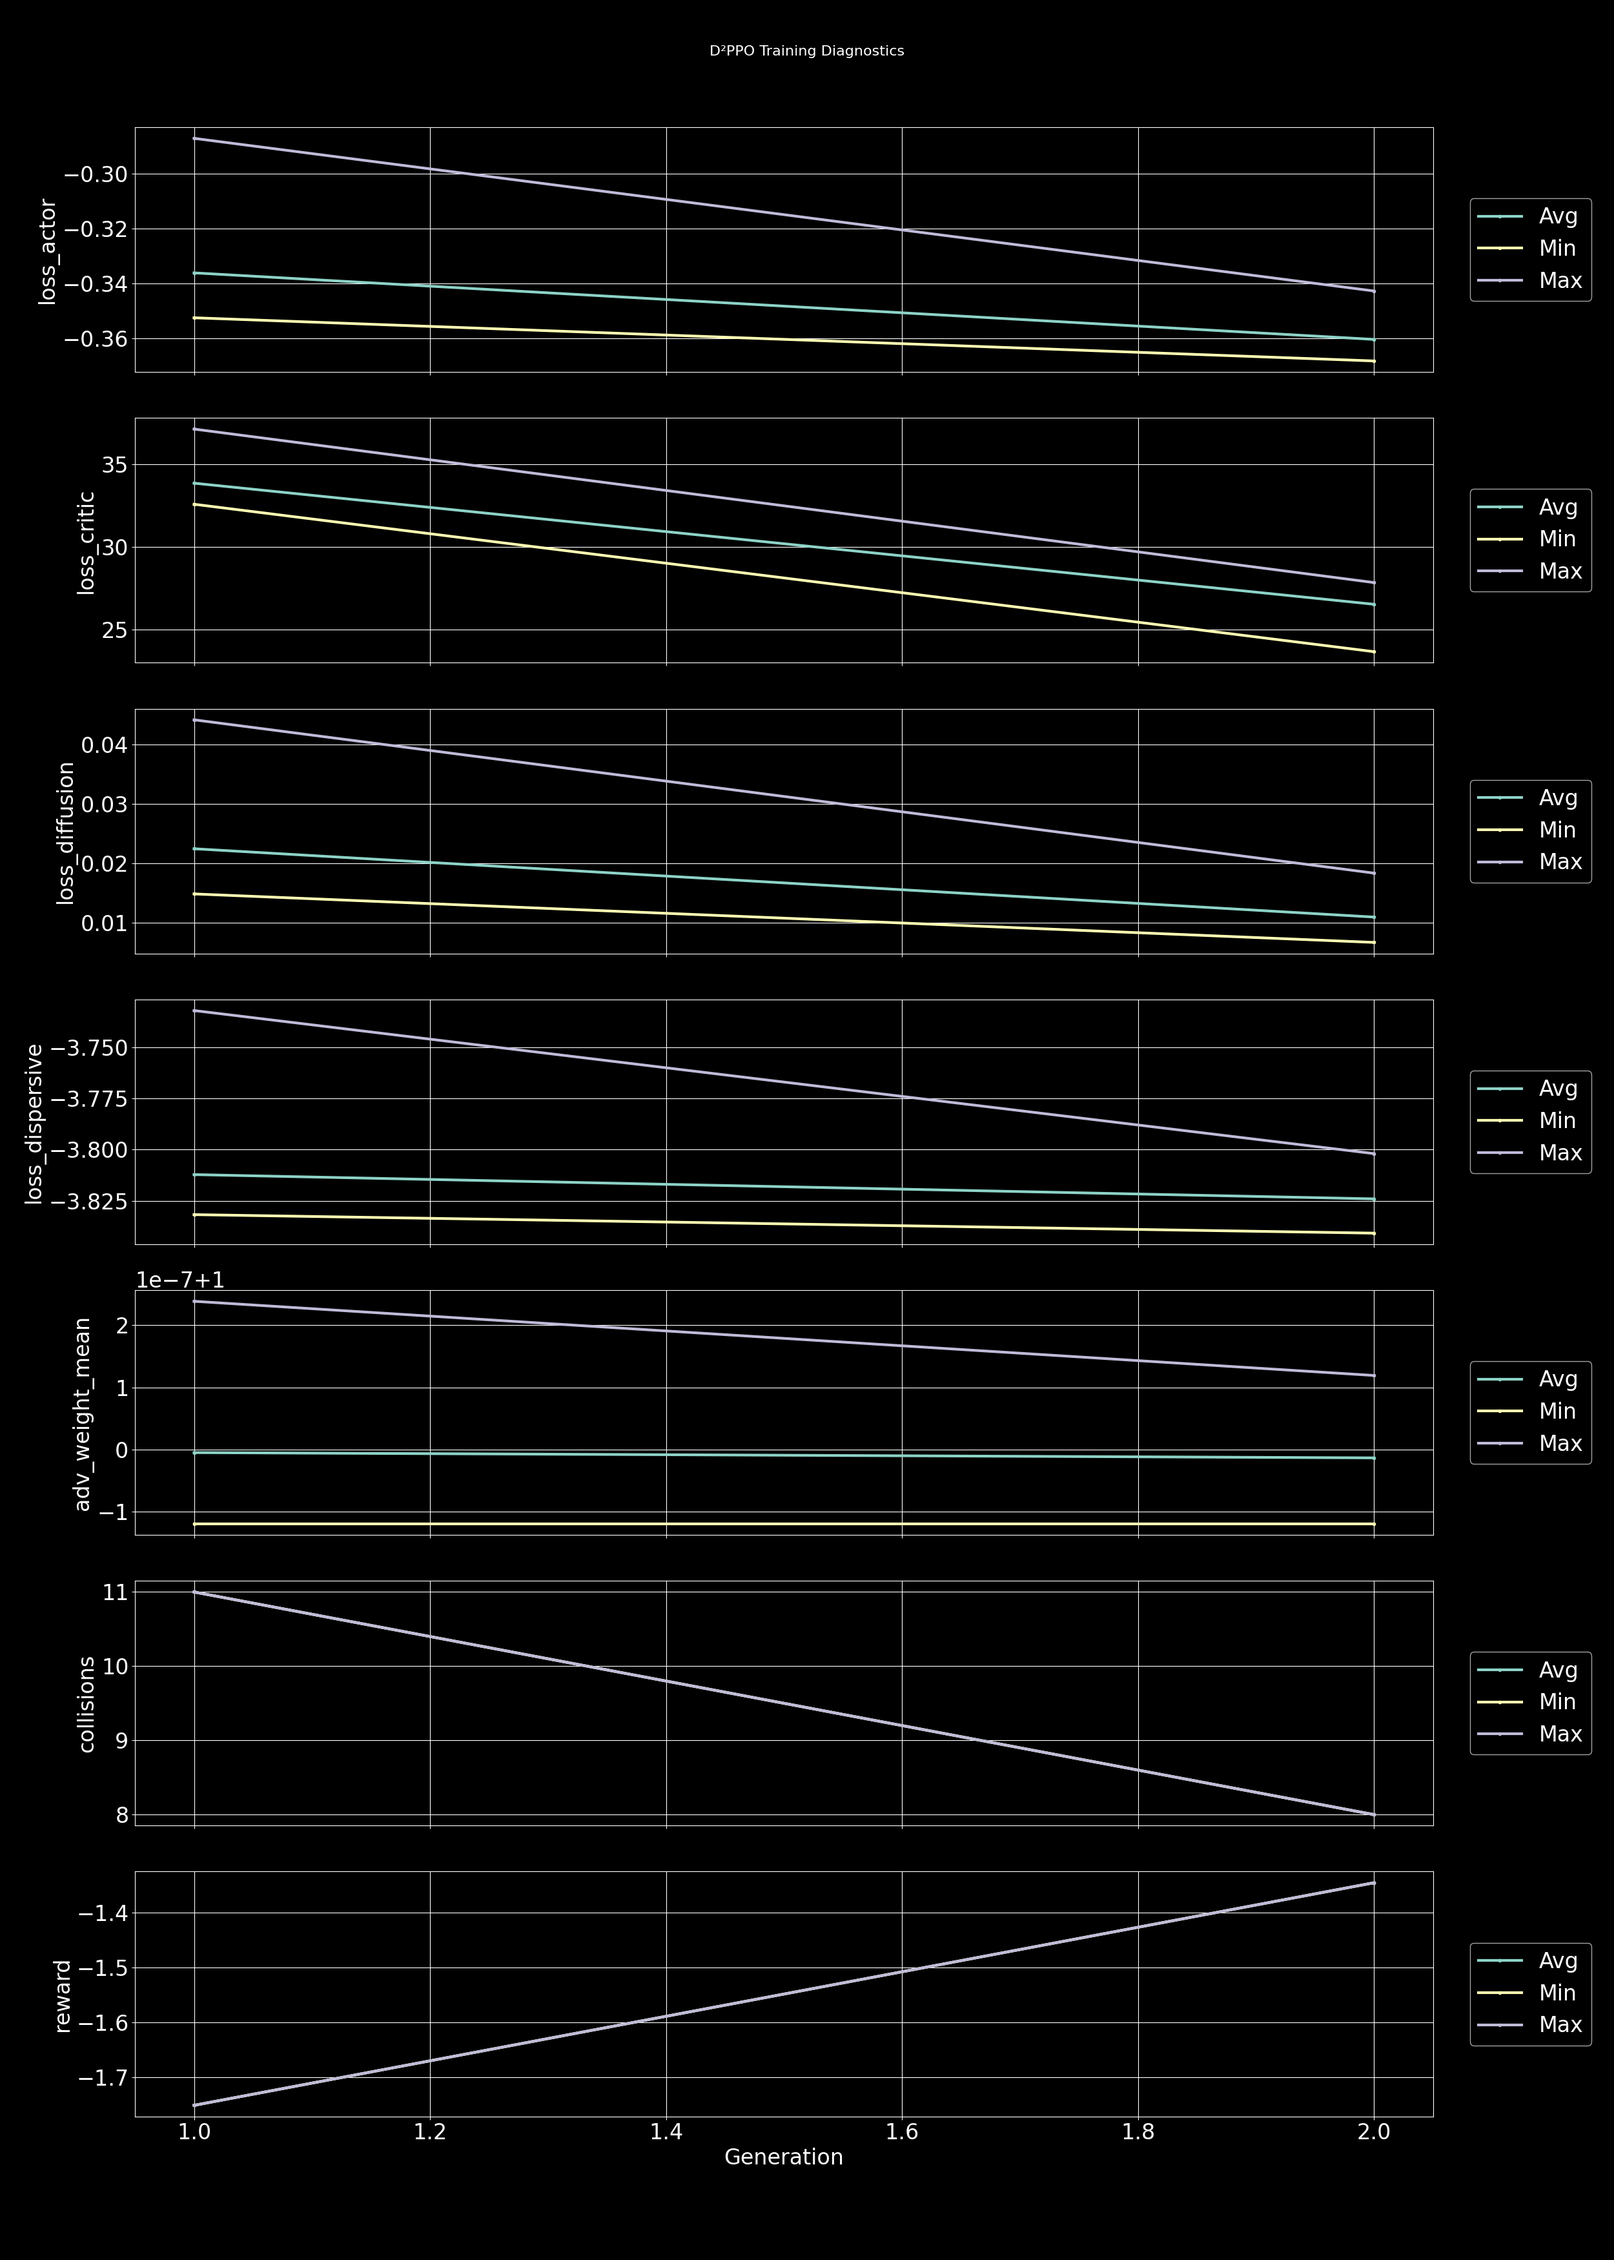
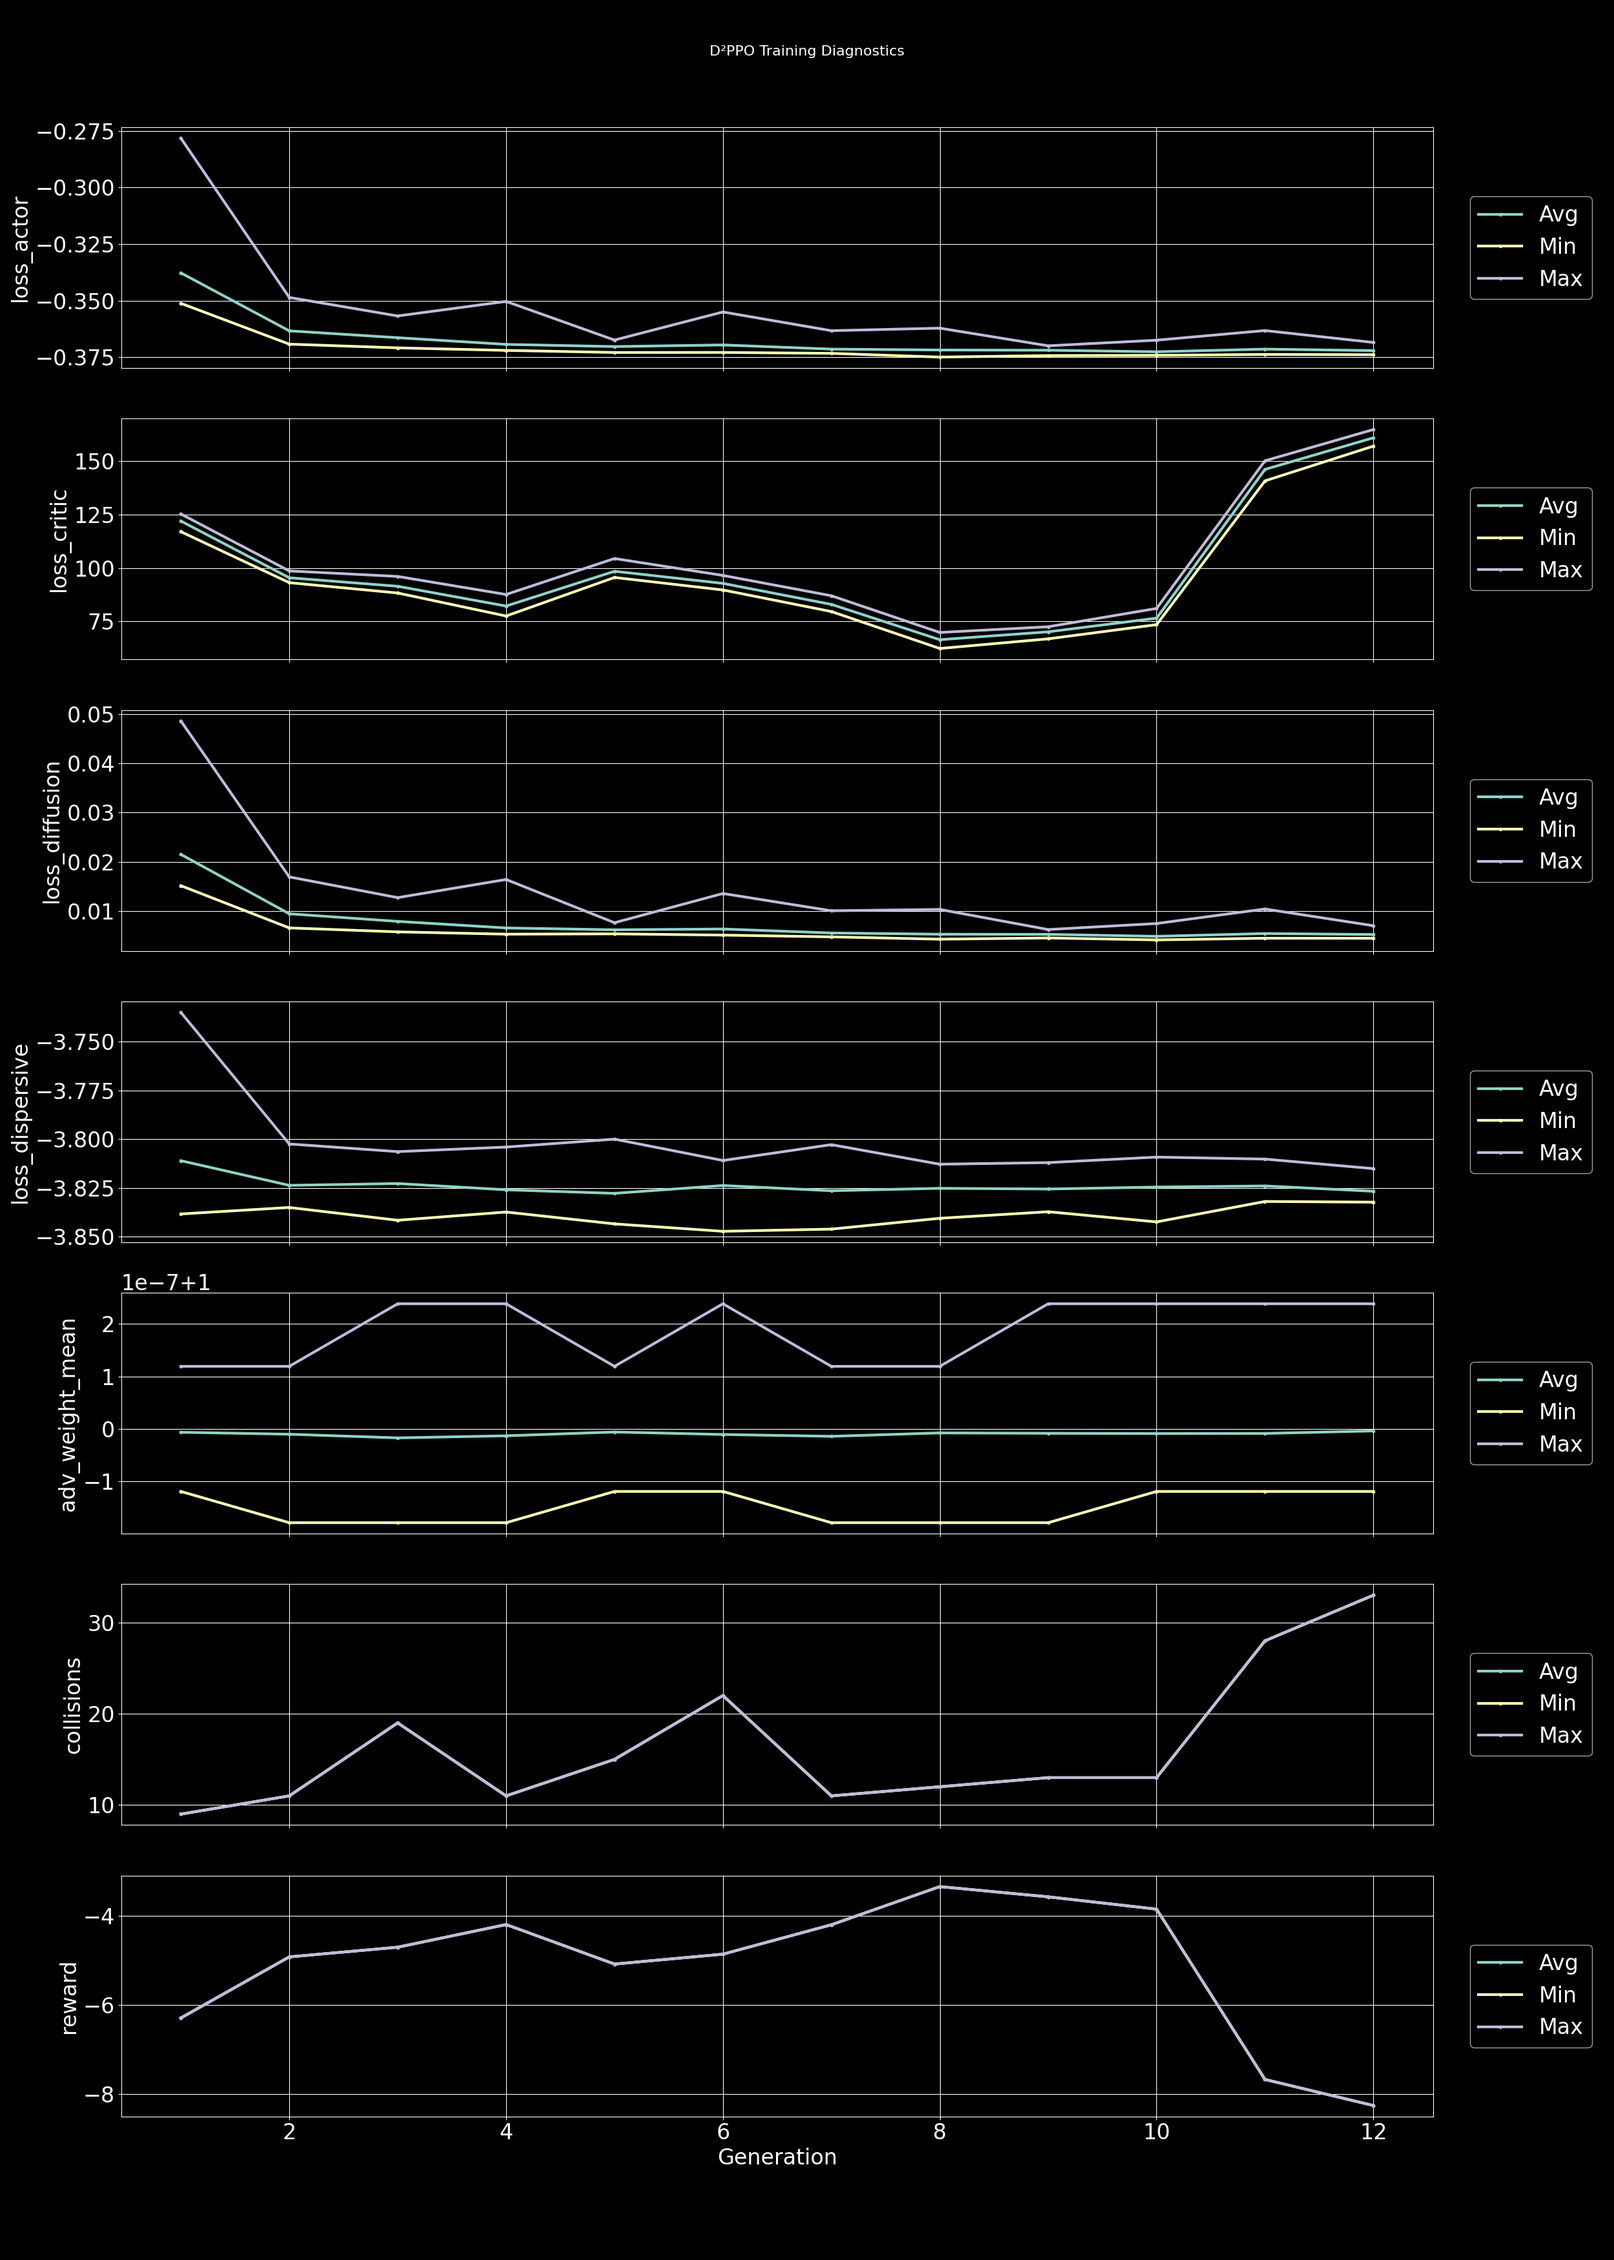
NaN fixes, reward reworks - Fixed issues with resnet getting NaN - Added avg speed to diags - Added progress/checkpoint/lap rewards - Calculated acceleration in agent rather than from sim

diff --git a/D2PPO_agent.py b/D2PPO_agent.py
@@ -113,8 +113,10 @@ class D2PPOAgent:
         self.LAP_REWARD = 80.0
         self.CHECKPOINT_REWARD = self.LAP_REWARD * 0.1
         self.COLLISION_PENALTY = -4.0
-        self.SPEED_REWARD = 3.0
+        self.SPEED_REWARD = 5.0
         self.AGENT_COLLISION_PENALTY = -2.0
+        self.NUM_CHECKPOINTS = 10
+        self._prev_lap_counts = np.zeros(self.num_agents, dtype=int)
 
         # --- Networks ---
         actor_encoder = self._transfer_vision(transfer[0])
@@ -172,7 +174,7 @@ class D2PPOAgent:
 
         self.diagnostic_keys = [
             "loss_actor", "loss_critic", "loss_diffusion",
-            "loss_dispersive", "adv_weight_mean", "collisions", "reward",
+            "loss_dispersive", "adv_weight_mean", "collisions", "reward", "avg_speed"
         ]
         self.diagnostics_history = {key: [] for key in self.diagnostic_keys}
         self.generation_counter = 0
@@ -186,6 +188,11 @@ class D2PPOAgent:
         self.actor_hidden = self.actor_network.get_init_hidden(
             self.num_agents, self.device, transpose=True
         )
+
+        # For computing acceleration from consecutive velocity observations
+        # (the sim's linear_accel_x is always 0)
+        self._prev_vels_x = np.zeros(self.num_agents)
+        self._sim_dt = 0.01  # f110_gym default timestep
         
     def update_buffer_size(self, new_size):
         self.buffer = TensorDictReplayBuffer(storage=ListStorage(max_size=new_size))
@@ -202,6 +209,7 @@ class D2PPOAgent:
             self.actor_hidden = self.actor_network.get_init_hidden(
                 self.num_agents, self.device, transpose=True
             )
+            self._prev_vels_x = np.zeros(self.num_agents)
         else:
             agent_indices = agent_indices[agent_indices < self.num_agents]
             # Per-agent reset: zero out specific agent slots
@@ -214,6 +222,7 @@ class D2PPOAgent:
                 h[idx] = 0.0
                 c[idx] = 0.0
             self.actor_hidden = (h, c)
+            self._prev_vels_x[agent_indices] = 0.0
     
     def get_action_and_value(self, scan_tensor, state_tensor, deterministic=False, store=True):
         """
@@ -250,10 +259,21 @@ class D2PPOAgent:
                     self.actor_hidden[1],
                 )
 
-                # Sample action via full reverse diffusion (with inline log_prob)
-                action, chain, log_prob = self.actor_network.sample_action_with_chain(
-                    obs_features, deterministic=deterministic
-                )
+            # Run reverse diffusion in float32 — the 25-step iterative
+            # chain accumulates rounding errors that overflow in float16.
+            obs_features_f32 = obs_features.float()
+            action, chain, log_prob = self.actor_network.sample_action_with_chain(
+                obs_features_f32, deterministic=deterministic
+            )
+
+            # Safety: clamp to valid action range & replace any residual NaN
+            action = action.clamp(
+                self.actor_network.action_lo.unsqueeze(0),
+                self.actor_network.action_hi.unsqueeze(0),
+            )
+            if torch.isnan(action).any():
+                print("[WARNING] NaN in sampled action — replacing with zeros")
+                action = torch.nan_to_num(action, nan=0.0)
 
             # Advance temporal state
             self.actor_buffer.append(new_buffer)
@@ -299,13 +319,60 @@ class D2PPOAgent:
     def calculate_reward(self, next_obs):
         collisions = np.array(next_obs["collisions"][:self.num_agents])
         speeds = np.array(next_obs["linear_vels_x"][:self.num_agents])
+        positions = np.stack([
+            np.array(next_obs['poses_x'][:self.num_agents]),
+            np.array(next_obs['poses_y'][:self.num_agents]),
+        ], axis=1)
         wall_collisions = collisions == 1
         agent_collisions = collisions == 2
         rewards = np.zeros(self.num_agents)
 
+        # --- PROGRESS REWARD ---
+        for i in range(self.num_agents):
+            projected_s, new_wp_idx = self._project_to_raceline(
+                positions[i],
+                self.last_wp_index[i],
+                lookahead=50,
+            )
+
+            # Guard against NaN positions (e.g. from NaN actions)
+            if np.isnan(projected_s):
+                projected_s = self.last_cumulative_distance[i]
+                new_wp_idx = self.last_wp_index[i]
+
+            progress = projected_s - self.last_cumulative_distance[i]
+            if progress < -self.raceline_length / 2:
+                progress += self.raceline_length   # crossed start/finish
+            elif progress > self.raceline_length / 2:
+                progress -= self.raceline_length   # went backwards
+
+            if progress > 0:
+                rewards[i] += progress * self.PROGRESS_REWARD_SCALAR
+            else:
+                rewards[i] += progress * self.PROGRESS_REWARD_SCALAR * 2.0  # penalise reversing harder
+
+            # --- Checkpoint reward (divide track into NUM_CHECKPOINTS segments) ---
+            segment_len = self.raceline_length / self.NUM_CHECKPOINTS
+            new_ckpt = int(projected_s / segment_len) % self.NUM_CHECKPOINTS
+            if new_ckpt != self.last_checkpoint[i]:
+                rewards[i] += self.CHECKPOINT_REWARD
+                self.last_checkpoint[i] = new_ckpt
+
+            self.last_cumulative_distance[i] = projected_s
+            self.last_wp_index[i] = new_wp_idx
+
+        # --- SPEED BONUS vs GFPP reference ---
         target_speed = self.gfpp.get_actions_batch(next_obs)
         speed_bonus = (speeds - target_speed[:self.num_agents, 1]) * self.SPEED_REWARD
         rewards += speed_bonus
+
+        # --- LAP COMPLETION REWARD ---
+        lap_counts = np.array(next_obs['lap_counts'][:self.num_agents], dtype=int)
+        laps_completed = lap_counts - self._prev_lap_counts
+        rewards += np.clip(laps_completed, 0, 1) * self.LAP_REWARD
+        self._prev_lap_counts = lap_counts.copy()
+
+        # --- COLLISION PENALTIES ---
         rewards += wall_collisions * self.COLLISION_PENALTY
         rewards += agent_collisions * (self.AGENT_COLLISION_PENALTY * 0.5)
 
@@ -325,6 +392,7 @@ class D2PPOAgent:
                 self.start_s[i] = self.waypoints_s[closest]
                 self.current_lap_count[i] = 0
                 self.last_checkpoint[i] = 0
+                self._prev_lap_counts[i] = 0
             return
 
         for i in range(self.num_agents):
@@ -336,6 +404,7 @@ class D2PPOAgent:
             self.start_s[i] = self.waypoints_s[closest]
             self.current_lap_count[i] = 0
             self.last_checkpoint[i] = 0
+        self._prev_lap_counts[:] = 0
 
     def learn(self, collisions, reward):
         """Advantage-Weighted Diffusion Regression + Diffusion Regulariser.
@@ -376,6 +445,7 @@ class D2PPOAgent:
 
         self.actor_network.train()
         self.critic_network.train()
+        
 
         # Flush stale intermediate features accumulated during rollout.
         # The diffusion_utils ConditionalDenoisingMLP appends to a list on
@@ -409,6 +479,7 @@ class D2PPOAgent:
                 advantages = advantages_all[mb_idx]
                 value_targets = value_targets_all[mb_idx]
                 old_values = old_values_all[mb_idx]
+                speeds = np.array(obs_state[:, 1], dtype=np.float32)
 
                 # Flatten agents dimension if present: [T, A, ...] → [T*A, ...]
                 if obs_scan.ndim == 4:  # [T, A, 1, beams]
@@ -535,6 +606,7 @@ class D2PPOAgent:
                 current_gen_diagnostics["loss_diffusion"].append(diff_reg.item())
                 current_gen_diagnostics["loss_dispersive"].append(disp_loss.item())
                 current_gen_diagnostics["adv_weight_mean"].append(weights.mean().item())
+                current_gen_diagnostics["avg_speed"].append(speeds[mb_idx].mean().item())
 
             if num_updates > 0:
                 print(
@@ -762,7 +834,12 @@ class D2PPOAgent:
         lvx = last_or_first(obs["linear_vels_x"])[: self.num_agents]
         lvy = last_or_first(obs["linear_vels_y"])[: self.num_agents]
         avz = last_or_first(obs["ang_vels_z"])[: self.num_agents]
-        lax = last_or_first(obs["linear_accel_x"])[: self.num_agents]
+
+        # Compute acceleration from consecutive velocities
+        # (sim's linear_accel_x is always 0)
+        lax = (lvx - self._prev_vels_x) / self._sim_dt
+        lax = np.clip(lax, -10.0, 10.0)  # Match normalisation range
+        self._prev_vels_x = lvx.copy()
 
         state_data = np.stack((lvx, lvy, avz, lax), axis=1)
         state_tensor = torch.from_numpy(state_data.astype(np.float32))

diff --git a/train.py b/train.py
@@ -42,9 +42,9 @@ STEPS_PER_GENERATION = 1024
 LIDAR_BEAMS = 1080  # Default is 1080
 LIDAR_FOV = 4.7   # Default is 4.7 radians (approx 270 deg)
 INITIAL_POSES = None # Generated later
-CURRENT_MAP = "BrandsHatch" # Starting map, used for pretraining
+CURRENT_MAP = "Sepang" # Starting map, used for pretraining
 PATIENCE = 200  # Early stopping patience
-GEN_PER_MAP = 10
+GEN_PER_MAP = 1
 
 def get_curriculum_map_pool(generation, selector=None):
     """Returns the appropriate map pool based on training progress."""
@@ -87,7 +87,7 @@ if hasattr(torch, 'compile'):
     agent.actor_network = torch.compile(agent.actor_network)
     agent.critic_network = torch.compile(agent.critic_network)
 
-STEPS_PER_GENERATION = int((agent.raceline_length / 7) * 100)
+STEPS_PER_GENERATION = int((agent.raceline_length / 7) * 201)  # Adjust steps based on raceline length and desired time per generation
 agent.update_buffer_size(STEPS_PER_GENERATION)
 print(f"Adjusted steps per generation to {STEPS_PER_GENERATION} based on raceline length.")
 
@@ -199,7 +199,6 @@ Collisions: {collisions}, \
 Max vel: {np.max(next_obs['linear_vels_x'][:NUM_AGENTS_AI]):.1f} m/s, \
 Max actor_vel: {torch.max(action_tensor[:,1]).item():.1f} m/s, \
 Ego Speed: {next_obs['linear_vels_x'][0]:.2f} \
-Max Accel: {np.max(np.abs(next_obs['linear_accel_x'][:NUM_AGENTS_AI])):.2f} m/s², \
 Avg Reward: {sum(total_reward_this_gen) / (step + 1):.3f} \
 S/s: {1 / (time.time() - timer):.1f}", end='\r')
         

diff --git a/models/DiffusionLSTM.py b/models/DiffusionLSTM.py
@@ -253,8 +253,9 @@ class DiffusionLSTM(nn.Module):
         return 2.0 * (action - self.action_lo) / (self.action_hi - self.action_lo + 1e-8) - 1.0
 
     def denormalize_action(self, action_norm):
-        """Map normalised action from [-1, 1] → [action_lo, action_hi]."""
-        return (action_norm + 1.0) * 0.5 * (self.action_hi - self.action_lo) + self.action_lo
+        """Map normalised action from [-1, 1] → [action_lo, action_hi], clamped."""
+        raw = (action_norm + 1.0) * 0.5 * (self.action_hi - self.action_lo) + self.action_lo
+        return raw.clamp(self.action_lo.unsqueeze(0), self.action_hi.unsqueeze(0))
 
     # ------------------------------------------------------------------
     # Forward / reverse diffusion helpers
